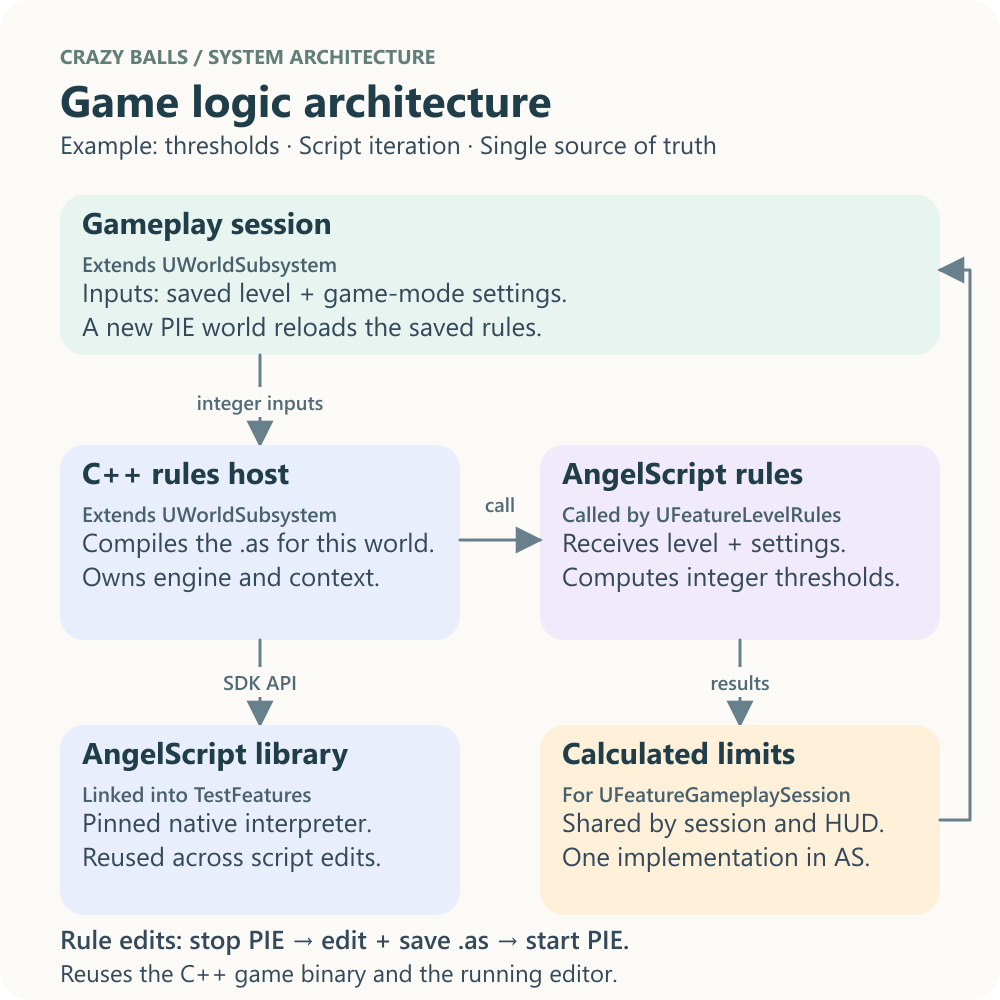
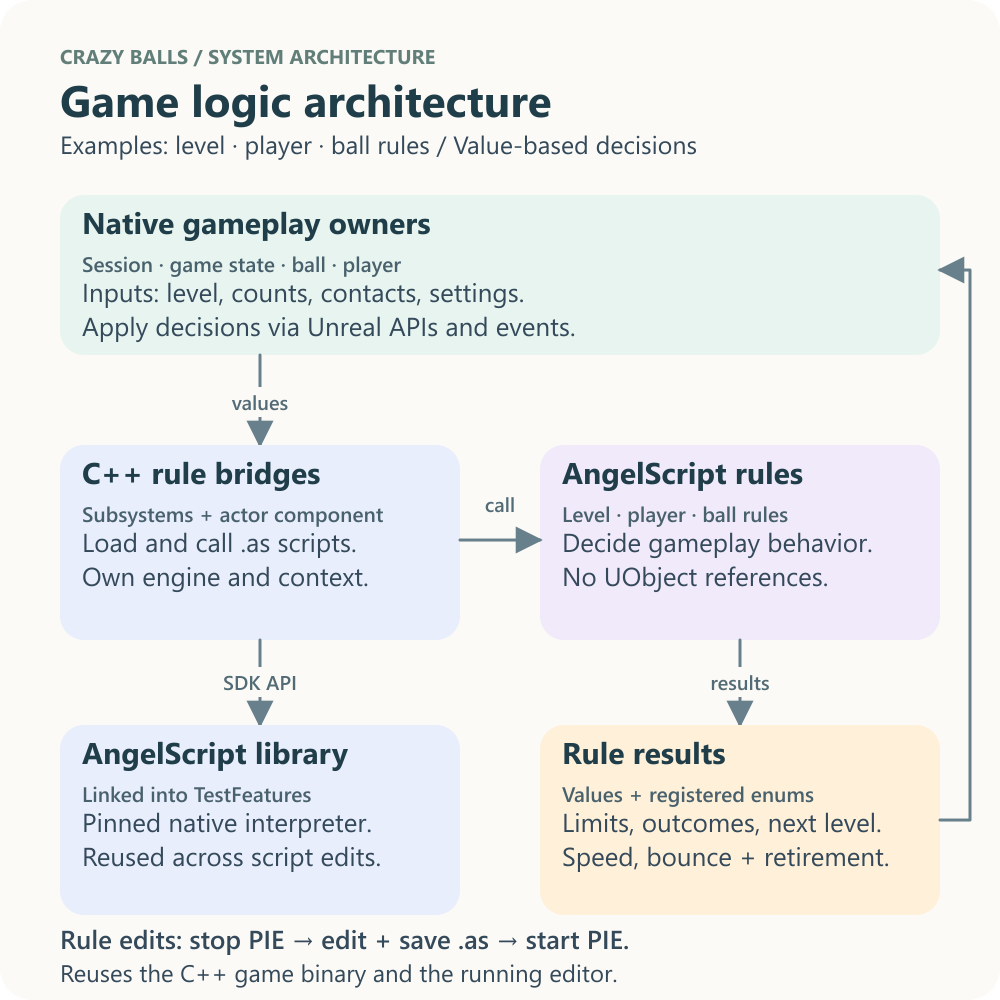
Docs: align AngelScript architecture and validation guidance with game rules

diff --git a/README.md b/README.md
@@ -145,20 +145,16 @@ Source: [game mode](Source/test_UE_584_G1_c/test_UE_584_G1_cGameMode.cpp) · [sa
 
 ### Game logic architecture
 
-![Square game logic architecture diagram: C++ session values enter the rules host, AS functions calculate thresholds, and results return to the session.](docs/images/feature-gamelogic-flow.png)
+![Square game logic architecture diagram: native gameplay owners pass values through focused C++ bridges to level, player, and ball rules; Unreal applies the returned decisions.](docs/images/feature-gamelogic-flow.png)
 
-The main driver for AngelScript is to change simple, code-based game logic without recompiling the C++ game. The two threshold functions demonstrate value-based bindings: a world-scoped host passes level and settings into AS, and the session and HUD share the returned limits. C++ owns configuration and saved state; AS owns the formulas. The [game-logic guide](Source/TestFeatures/Features_GameLogic/README.GAMELOGIC.md) covers work in `Features_GameLogic`, where the host and scripts stay together.
+AngelScript lets simple, code-based gameplay decisions change without rebuilding C++. The current examples cover level limits, session outcomes and progression, player speed bonuses, and ball lifetime. Focused bridges pass values to the scripts and apply their results through Unreal APIs. C++ owns configuration, authoritative state, events, timers, physics, pooling, and persistence; registered native enums keep result and action definitions shared. The [game-logic guide](Source/TestFeatures/Features_GameLogic/README.GAMELOGIC.md) maps each script to its bridge and consumers.
 
-Level rules also choose session outcomes and level progression. [Ball rules](Source/TestFeatures/Features_GameLogic/FeatureBallRules.as) decide which contacts count, when balls retire, and whether to replace them. C++ applies those results through events, physics, pooling, and persistence; registered native enums keep the outcome/action definitions shared.
-
-Each new PIE world creates a fresh `UFeatureLevelRules` host that reads and compiles the latest saved script. That provides the edit-and-restart workflow shown above, with the existing C++ binary and editor. Live hot reload is a secondary convenience; changes to native bindings still require a C++ build. See [AngelScript rules](docs/DEVELOPMENT.md#angelscript-rules) for usage and packaging.
-
-[Player-character rules](Source/TestFeatures/Features_GameLogic/FeaturePlayerRules.as) use the same value-based boundary for baseline speed and contact bonuses. A focused `UFeaturePlayerRules` actor component handles contact observation, movement updates, and timer expiry, keeping that feature out of the character's movement/input class. Its script is read when a spawned character is configured; restarting PIE picks up edits to both examples.
+Level and ball rules load once per world; player rules load when a spawned character's component is configured. Stop PIE, edit and save the relevant `.as` file, then start PIE to load the latest rules using the existing game binary and editor. Live hot reload is secondary; changing the native interface still requires a C++ build. See [AngelScript development](docs/DEVELOPMENT.md#angelscript-rules) for the workflow and packaging details.
 
 <details>
 <summary>Class and binding reference</summary>
 
-| Diagram role | Class or value | Base or primary consumer |
+| Responsibility | Class or value | Base or primary consumer |
 | --- | --- | --- |
 | Gameplay session | `UFeatureGameplaySession` | Extends `UWorldSubsystem`; supplies level and configuration values |
 | C++ rules host | `UFeatureLevelRules` | Extends `UWorldSubsystem`; owns an `FFeatureScriptRuntime` for level rules |
@@ -166,6 +162,7 @@ Each new PIE world creates a fresh `UFeatureLevelRules` host that reads and comp
 | Session and progression decisions | `SessionOutcome` / `NextLevel` in `FeatureLevelRules.as` | Applied by the gameplay session and game state |
 | Ball rules bridge | `UFeatureBallRules` | Extends `UWorldSubsystem`; translates collision facts and calls `FeatureBallRules.as` |
 | Player-character bridge | `UFeaturePlayerRules` | Extends `UActorComponent`; calls `FeaturePlayerRules.as` and owns native movement/timer integration |
+| Runtime implementation | `FFeatureScriptRuntime` | Owns an independent engine and context for each focused bridge |
 | AngelScript library | `FeatureAngelScriptRuntime` external module | Links the pinned Win64 static library into `TestFeatures` |
 | Calculated limits | `int32` return values | Consumed by session limit checks and the gameplay HUD |
 
@@ -195,7 +192,7 @@ This view focuses on ownership and narrow helper APIs. The session owns its pool
 
 Source: [ball pool](Source/TestFeatures/Features_NonUE/FeatureBallSpawner.cpp) · [save storage](Source/TestFeatures/Features_NonUE/FeatureSaveGameStorage.cpp) · [HUD factory](Source/TestFeatures/Features_NonUE/FeatureDebugHUDSpawner.cpp) · [player controller](Source/test_UE_584_G1_c/test_UE_584_G1_cPlayerController.cpp).
 
-The `TestFeatures` runtime module houses gameplay, UI, and persistence. Unreal and Blueprint provide the framework and supplementary assets; AngelScript implements the level-threshold rules through an embedded standalone runtime.
+The `TestFeatures` runtime module houses gameplay, UI, and persistence. Unreal and Blueprint provide the framework and supplementary assets; AngelScript implements level, player, and ball rules through an embedded standalone runtime.
 
 Within `TestFeatures/Features`, `Gameplay` contains balls, bounds, and bounce state. `GameWorkflow` contains session and persistence code. `UI` contains menus and HUD panels. AngelScript rules and their C++ bridges live together in the sibling `Features_GameLogic` folder. Plain C++ spawning, storage, and HUD factory helpers live in `Features_NonUE`.
 

diff --git a/Source/TestFeatures/Features_GameLogic/README.GAMELOGIC.md b/Source/TestFeatures/Features_GameLogic/README.GAMELOGIC.md
@@ -1,14 +1,14 @@
 # Game logic
 
-This folder contains the game's rule calculations and the C++ code that connects them to sessions and player movement. The focus is game-logic work; AngelScript is the current tool for expressing simple rules that can change without rebuilding C++.
+This folder contains the game's rule calculations and the C++ code that connects them to sessions, balls, and player movement. The focus is game-logic work; AngelScript is the current tool for expressing simple rules that can change without rebuilding C++.
 
 ## Responsibility and ownership
 
 - Level limits, session outcomes, and level progression have one implementation in [FeatureLevelRules.as](FeatureLevelRules.as); player speed and bonus transitions live in [FeaturePlayerRules.as](FeaturePlayerRules.as). [FeatureBallRules.as](FeatureBallRules.as) owns bounce classification, retirement, and replacement eligibility.
-- The [level host](FeatureLevelRules.cpp), `UFeatureLevelRules`, extends `UWorldSubsystem` and passes integer inputs and results across the boundary.
+- The [level host](FeatureLevelRules.cpp), `UFeatureLevelRules`, extends `UWorldSubsystem` and passes integer inputs and the registered session-result enum across the boundary.
 - The [player bridge](FeaturePlayerRules.cpp), `UFeaturePlayerRules`, extends `UActorComponent`. It owns contact subscriptions, native movement updates, the expiry timer, and transient bonus state. GameMode supplies its configuration; the character only creates the component alongside its movement and cameras.
 - The [ball bridge](FeatureBallRules.cpp), `UFeatureBallRules`, extends `UWorldSubsystem`. It translates native collision facts into values and returns scripted action flags. The ball applies count/retirement effects; the session operates the replacement queue and pool.
-- Both hosts use [FFeatureScriptRuntime](FeatureScriptRuntime.cpp) for compilation, function lookup, execution, and native resource ownership. Level rules load once per world; player rules load when each spawned character is configured, with an independent context and no per-frame script polling.
+- All three bridges use [FFeatureScriptRuntime](FeatureScriptRuntime.cpp) for compilation, function lookup, execution, and native resource ownership. Level and ball rules each load once per world; player rules load when each spawned character is configured. Each bridge owns an independent runtime and reusable context, with no per-frame script polling.
 - Game-mode configuration and saved progress remain owned by C++. The script receives values rather than retaining a second copy of game state.
 - The [gameplay session](../Features/GameWorkflow/FeatureGameplaySession.cpp) uses the returned limits for both outcome checks and the gameplay HUD.
 
@@ -22,9 +22,9 @@ The player-character example calculates baseline speed, whether a contact create
 
 1. Stop PIE.
 2. Edit the relevant function in `FeatureLevelRules.as`, `FeaturePlayerRules.as`, or `FeatureBallRules.as` and save the file.
-3. Start PIE again. The new world creates a fresh host, reads the saved script from disk, and compiles the updated rule.
+3. Start PIE again. The new world creates fresh level/ball hosts; starting gameplay configures the player bridge. Each reads and compiles its saved script.
 
-Script-only formula changes reuse the existing C++ game binary, editor, and runtime library. Live hot reload is optional future work; the stop/edit/start workflow already supports quick rule iteration.
+Script-only rule changes reuse the existing C++ game binary, editor, and runtime library. Live hot reload is optional future work; the stop/edit/start workflow already supports quick rule iteration.
 
 Keep existing entry-point argument and return types when changing a rule. The bridges pass integers, floats, booleans, and registered native enums. To add a new input or entry point, update the corresponding C++ bridge and caller, then rebuild C++. Keep the rule itself in one place instead of adding a parallel C++ implementation. When future behavior changes a property during gameplay, consider placing its decision or calculation here, as required by the [project's design rule](../../../AGENTS.MD#code-standards).
 
@@ -36,4 +36,4 @@ All authored `.as` source and project-specific C++ hosts and bindings stay toget
 
 ## Runtime dependency
 
-The host uses a prebuilt AngelScript library. Its [dependency guide](../../ThirdParty/FeatureAngelScriptRuntime/README.ANGELSCRIPT.md) covers the pinned version, source cache, library rebuilds, and upgrades. Those operations are separate from ordinary game-rule edits.
+The bridges use a prebuilt AngelScript library. Its [dependency guide](../../ThirdParty/FeatureAngelScriptRuntime/README.ANGELSCRIPT.md) covers the pinned version, source cache, library rebuilds, and upgrades. Those operations are separate from ordinary game-rule edits.

diff --git a/Source/TestFeatures/Features/README.FEATURES.md b/Source/TestFeatures/Features/README.FEATURES.md
@@ -18,7 +18,7 @@ Start with the startup flow below. The later sections explain the event connecti
 | `GameWorkflow` | Gameplay session, flow enum, save data, and persistence subsystem |
 | `UI` | Menu and HUD archetypes, declarative menu views, and panel widgets |
 
-The sibling [game-logic folder](../Features_GameLogic/README.GAMELOGIC.md) contains the rules and their C++ hosts and bindings, including the level-threshold example currently implemented with AngelScript. The sibling `Features_NonUE` folder contains plain C++ helpers for spawning and storage. These helpers still use Unreal APIs. They do not derive from UObject.
+The sibling [game-logic folder](../Features_GameLogic/README.GAMELOGIC.md) contains level, player, and ball rules and their focused C++ bridges. AngelScript owns limits, outcomes, progression, speed calculations, and ball-lifetime decisions; native code applies the results. The sibling `Features_NonUE` folder contains plain C++ helpers for spawning and storage. These helpers still use Unreal APIs. They do not derive from UObject.
 
 ![Standalone gameplay after moving feature classes into responsibility folders](../../../docs/images/feature-organized-gameplay.png)
 
@@ -30,6 +30,9 @@ The sibling [game-logic folder](../Features_GameLogic/README.GAMELOGIC.md) conta
 | --- | --- | --- |
 | `Atest_UE_584_G1_cGameMode` | Creates the session and observes its events to manage screens and player spawning. | [GameMode.cpp](../../test_UE_584_G1_c/test_UE_584_G1_cGameMode.cpp) |
 | `UFeatureGameplaySession` | Owns gameplay lifecycle, ball spawning, bounds creation, and the state-event bridge. | [FeatureGameplaySession.cpp](GameWorkflow/FeatureGameplaySession.cpp) |
+| `UFeatureLevelRules` | Bridges scripted limits, session outcomes, and level progression. | [FeatureLevelRules.cpp](../Features_GameLogic/FeatureLevelRules.cpp) |
+| `UFeatureBallRules` | Bridges scripted contact effects and replacement eligibility. | [FeatureBallRules.cpp](../Features_GameLogic/FeatureBallRules.cpp) |
+| `UFeaturePlayerRules` | Connects scripted player-speed rules to movement, contacts, and expiry timers. | [FeaturePlayerRules.cpp](../Features_GameLogic/FeaturePlayerRules.cpp) |
 | `FFeatureBallSpawner` | Finds an available ball or creates one, and remembers the pool. | [FeatureBallSpawner.cpp](../Features_NonUE/FeatureBallSpawner.cpp) |
 | `AFeatureBall` | Handles its own appearance, movement, collisions, and active/inactive state. | [FeatureBall.cpp](Gameplay/FeatureBall.cpp) |
 | `AFeatureLevelBounds` | Contains physics balls with six collision faces spawned at session start. | [FeatureLevelBounds.cpp](Gameplay/FeatureLevelBounds.cpp) |

diff --git a/docs/DEVELOPMENT.md b/docs/DEVELOPMENT.md
@@ -19,9 +19,11 @@ This guide covers running and testing Crazy balls, changing its implementation, 
 
 ### Smoke checks
 
-After building the Development Editor target, run `./Run-FeatureSmoke.ps1` in PowerShell. It invokes Unreal's Gauntlet editor automation runner for seven `Feature.Smoke` checks: menu definitions, session state, ball-pool reuse, player-contact replacement, script-backed win/loss progression and minimum, save serialization, and temporary player-speed boosts including refresh, timer expiry, and stacking. Logs are stored under `Intermediate/FeatureSmoke`; the runner exports `Report/index.json` and `Report/index.html` there. Repeated runs replace the current artifacts. These headless checks do not replace a playthrough or exercise the rendered UI.
+After building the Development Editor target, run `./Run-FeatureSmoke.ps1` in PowerShell. It invokes Unreal's Gauntlet editor automation runner for seven `Feature.Smoke` checks: menu definitions, session state and progression, pool reuse, ball contact/retirement/replacement policy, scripted outcomes and limits, save serialization, and player-speed boosts including refresh, expiry, and stacking. Logs are stored under `Intermediate/FeatureSmoke`; the runner exports `Report/index.json` and `Report/index.html` there. Repeated runs replace the current artifacts. These headless checks do not replace a playthrough or exercise the rendered UI.
 
 November 8, 2026: the Development Editor build succeeded and Gauntlet passed all seven checks with exit code 0 and no per-test warnings or errors. The [saved JSON report](validation/2026-11-08-gauntlet-report.json) records each result. Two fixture failures found in the initial run were corrected: the replacement fixture now supplies a non-bot player state and exercises the queued replacement timer; the speed fixture advances across engine frames and uses separate characters for independent boost configurations.
+
+That report predates the player, outcome, progression, and ball-rule extractions. Their updated checks compiled, and all three scripts passed compilation and binding-signature checks; Gauntlet has not been rerun against those changes. This documentation review adds no runtime validation or new captures.
 
 The editor still logs startup diagnostics before the checks, including 14 `LogAutomationTest: Error: Condition failed` messages in this passing run. These were not suppressed. The previous initialization failure was not reproduced when running outside the restricted execution environment; its cause remains unconfirmed. See the [tracked startup issue](../AGENTS.MD#bugs).
 

diff --git a/docs/PERFORMANCE_IDEAS.md b/docs/PERFORMANCE_IDEAS.md
@@ -10,7 +10,7 @@ State and HUD updates use events, with subscriptions attached at actor creation 
 
 Normal persistence already uses asynchronous disk access, pausing gameplay until completion. The old sleep delays, ticker previews, and modal painting handshake are absent from the current subsystem. Progress contains the level, aggregate count, and chronological sessions, rather than one integer. Forced teardown retains a synchronous save fallback.
 
-AngelScript compiles once per world initialization and reuses its context and function handles. The prebuilt library avoids rebuilding SDK sources during ordinary builds; script compilation and interpreter execution still happen at runtime. Starting a new PIE world intentionally picks up saved script edits.
+Level and ball scripts compile once per world initialization; the player script compiles when each character's rule component is configured. Each bridge owns an independent runtime and reuses its context and function handles for event-driven calls. The prebuilt library avoids rebuilding SDK sources during ordinary builds; script compilation and interpreter execution still happen at runtime. Restarting PIE and starting gameplay intentionally picks up saved script edits.
 
 ## Suggested order of investigation
 

diff --git a/Source/ThirdParty/FeatureAngelScriptRuntime/README.ANGELSCRIPT.md b/Source/ThirdParty/FeatureAngelScriptRuntime/README.ANGELSCRIPT.md
@@ -16,7 +16,7 @@ Artifact paths below are relative to `Source/ThirdParty/FeatureAngelScriptRuntim
 
 Ordinary Unreal builds only validate and link the supplied library. They do not download or compile the SDK, and a clean checkout does not require the SDK cache. The module checks the artifact hashes against `BuildInfo.json`; the C++ adapter also checks the header version at compile time.
 
-The library uses `AS_USE_NAMESPACE`, `AS_MAX_PORTABILITY` and `AS_NO_EXCEPTIONS`. No Unreal plugin, engine fork or AngelScript DLL is required. Our script API passes integer values; these build options are sufficient for that interface.
+The library uses `AS_USE_NAMESPACE`, `AS_MAX_PORTABILITY` and `AS_NO_EXCEPTIONS`. No Unreal plugin, engine fork or AngelScript DLL is required. The script API passes integers, floats, booleans, and registered native enums through execution-context argument and return-value methods. It exposes no Unreal objects to scripts.
 
 ## Build or restore the source
 
